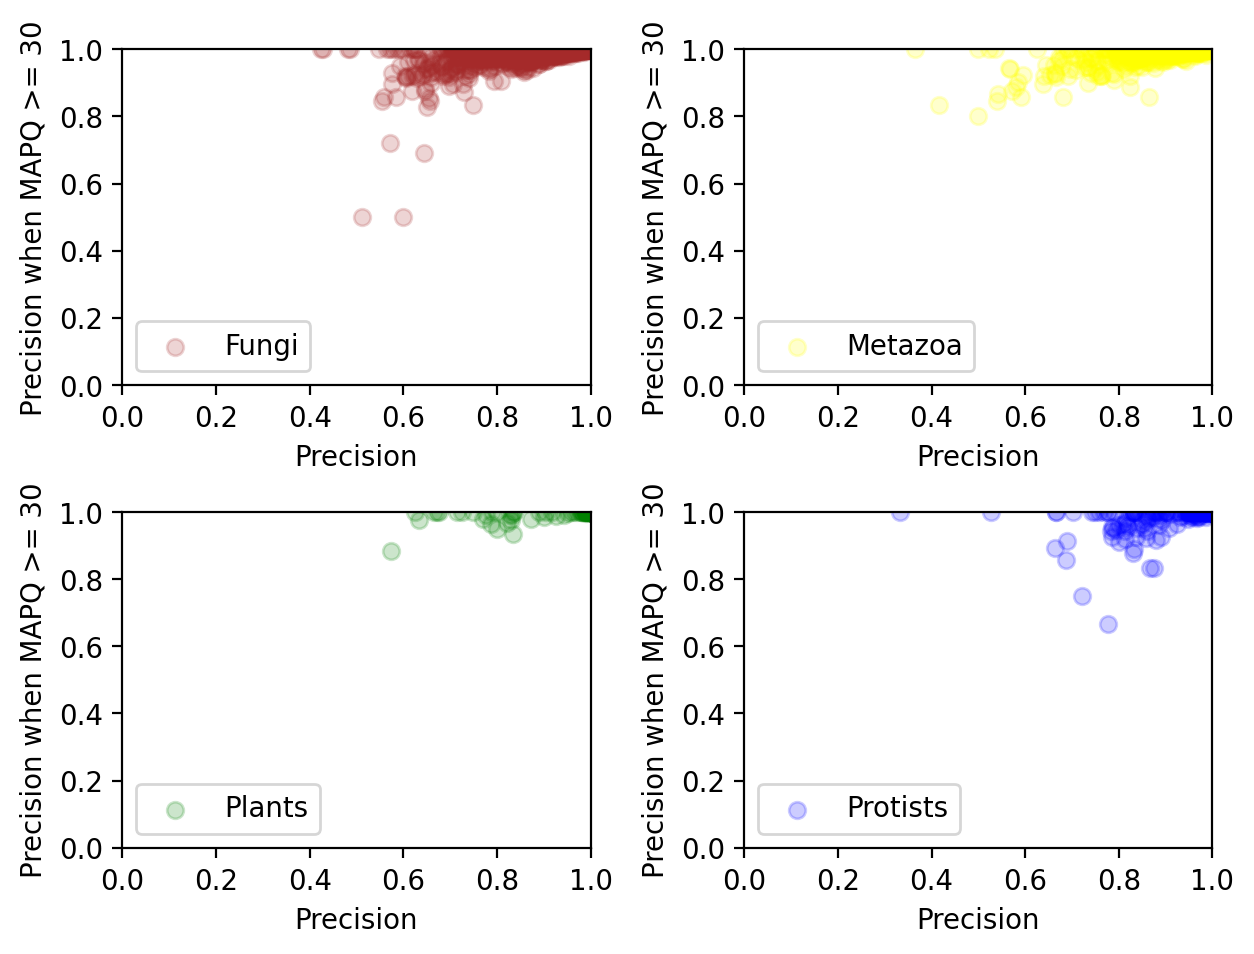
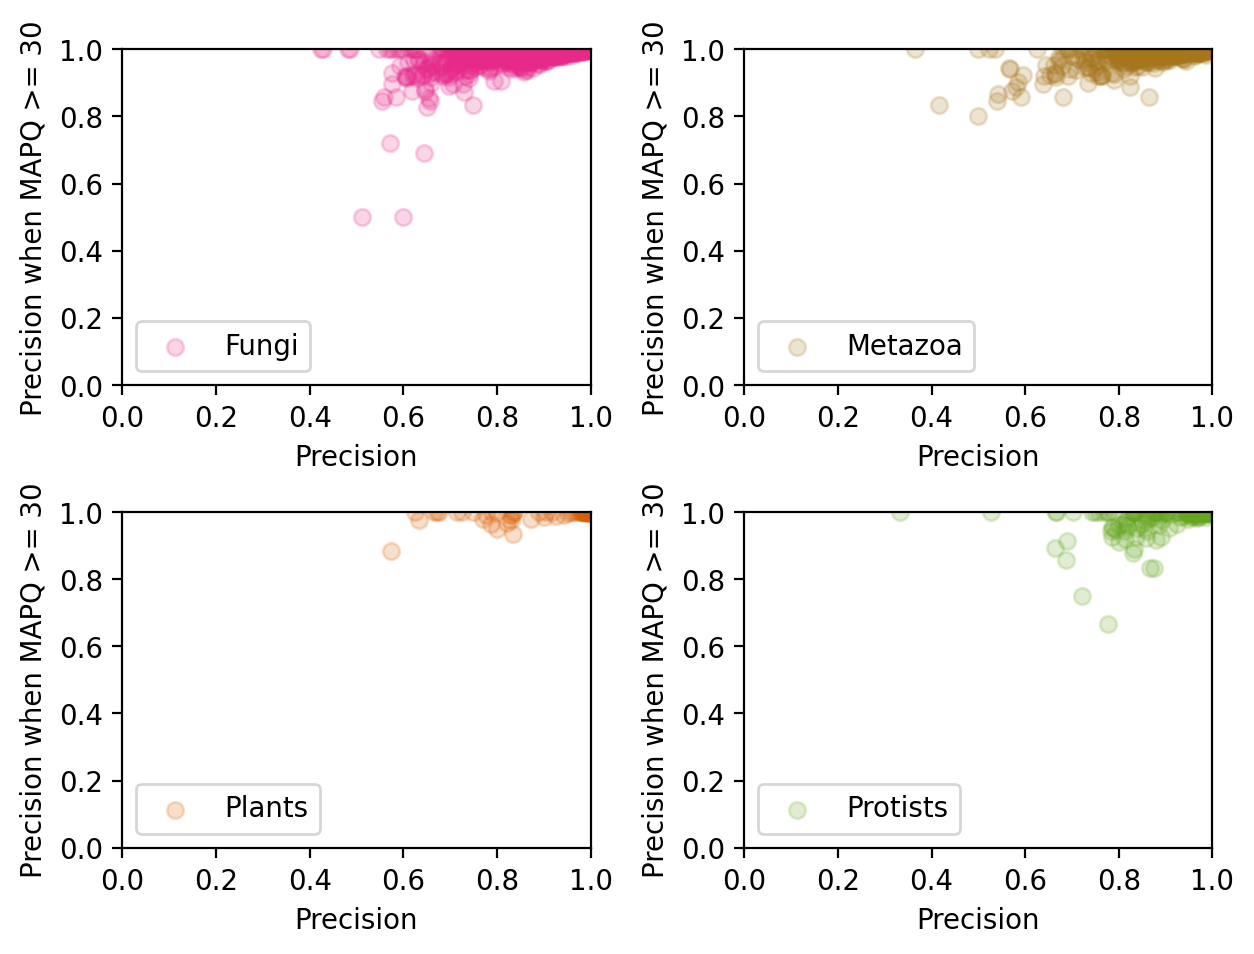
Better colors

diff --git a/scripts/plot_precision_by_species.py b/scripts/plot_precision_by_species.py
@@ -100,9 +100,27 @@ def taxa_that_get_wiped(ncbi, df):
     return taxa_stat(ncbi, df, ix)
 
 
+# https://stackoverflow.com/questions/25408393/getting-individual-colors-from-a-color-map-in-matplotlib
+from matplotlib import cm
+cmap = cm.get_cmap('Dark2')  #('hsv') #('nipy_spectral')
+
+max_colors = 13   # Constant, max mumber of series in any plot.  Ideally prime.
+color_number = 0  # Variable, incremented for each series.
+
+def restart_colors():
+    global color_number
+    color_number = 0
+    #np.random.seed(1)
+
+def next_color():
+    global color_number
+    color_number += 1
+    #color = tuple(np.random.uniform(0.0, 0.5, 3))
+    color = cmap( ((5 * color_number) % max_colors) / max_colors )
+    return color
 
 def plot_group(plt, groups, group, color, ax):
-    ax.scatter(groups[group]['precision'], groups[group]['precision_mapq_at_least_30'], label=group, alpha=0.2, c = color)
+    ax.scatter(groups[group]['precision'], groups[group]['precision_mapq_at_least_30'], label=group, alpha=0.2, color = color)
     ax.set_xlim(0,1)
     ax.set_ylim(0,1)
     ax.legend(loc="lower left")
@@ -121,10 +139,11 @@ def do(input_db, same_what, refdb_ncbi, output_png):
 
 # annoyingly overplotted
     groups = {name: group for name, group in [t for t in df.groupby("kingdom")]}
-    plot_group(plt, groups, "Fungi", "brown", axs[0][0])
-    plot_group(plt, groups, "Metazoa", "yellow", axs[0][1])
-    plot_group(plt, groups, "Plants", "green", axs[1][0])
-    plot_group(plt, groups, "Protists","blue", axs[1][1])
+    restart_colors()
+    plot_group(plt, groups, "Fungi", next_color(), axs[0][0])
+    plot_group(plt, groups, "Metazoa", next_color(), axs[0][1])
+    plot_group(plt, groups, "Plants", next_color(), axs[1][0])
+    plot_group(plt, groups, "Protists",next_color(), axs[1][1])
     plt.tight_layout()
 
     fig.savefig(output_png, bbox_inches='tight', dpi=199)
